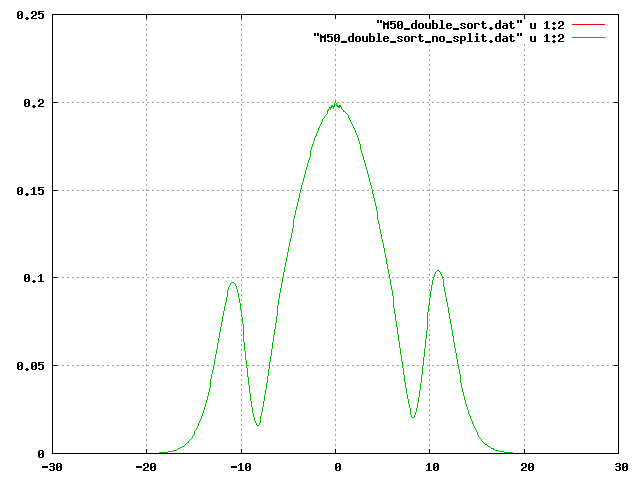
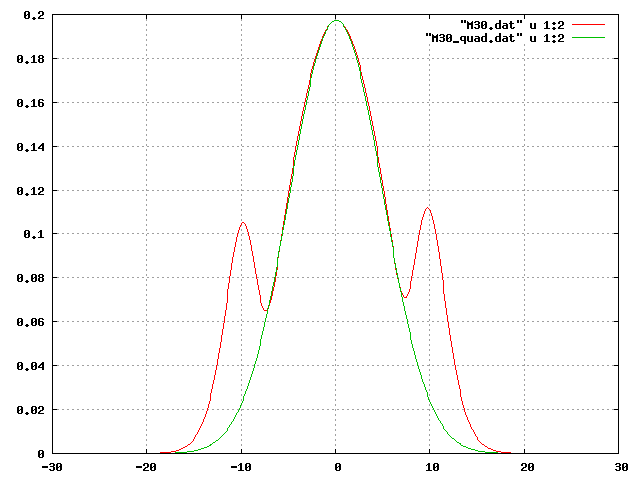
i don't understand why the sidelobes are missing in the c code

diff --git a/quad_calc.c b/quad_calc.c
@@ -38,10 +38,13 @@ __float128 w(int M,__float128*binom,__float128 s1x,__float128 s2x, __float128 de
   int i;
   for(i=0;i<M;i++){
     int m=i+1;
-    __float128 a2=sigma*sigma*(2*m*delta*delta+4*sigma*sigma)/(m*delta*delta+4*sigma*sigma),
-      b2=2/(m*delta*delta)+1/(sigma*sigma),
-      c=k*k*sigma*sigma*m*delta*delta/(m*delta*delta+4*sigma*sigma),
-      d=2*k*k*sigma*sigma*sigma*sigma/(m*delta*delta+4*sigma*sigma);
+    __float128 d2=delta*delta,s2=sigma*sigma,
+      div=1.0q/(m*d2+4.0q*s2),
+      a2=s2*(2.0q*m*d2+4.0q*s2)*div,
+      b2=2.0q/(m*d2)+1.0q/s2,
+      k2=k*k,
+      c=k2*s2*m*d2*div,
+      d=2*k2*s2*s2*div;
     sum += binom[i]*powq(-1.0q,m-1)*sqrtq(a2/(m*b2))*expq(-c*(s1x*s1x+s2x*s2x)-d*powq(s1x-s2x,2));
   }
   return sum;
@@ -49,7 +52,7 @@ __float128 w(int M,__float128*binom,__float128 s1x,__float128 s2x, __float128 de
 
 int main()
 {
-  enum{M=50};
+  enum{M=30};
   __float128 binom[M],s1x=.3,s2x=.1,delta=.7,sigma=.4,k=.5,sum=.0q;
   calc_binomials(M,binom);
   char y[1000];
